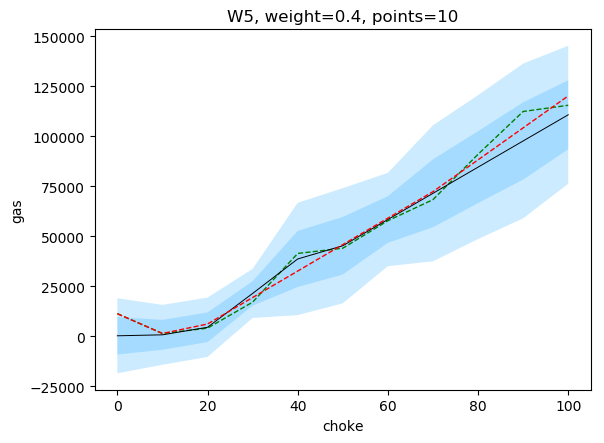
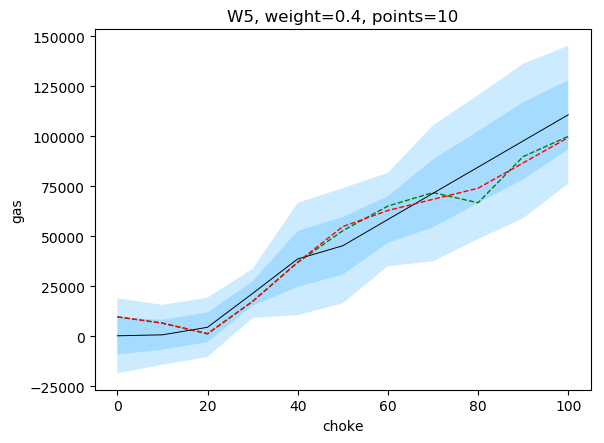
asd

diff --git a/NN_scenario.py b/NN_scenario.py
@@ -8,6 +8,7 @@ Created on Wed May  2 16:24:34 2018
 import pandas as pd
 from keras.layers import Input, Dense, Activation, LeakyReLU, PReLU, ELU, MaxoutDense, merge, Subtract, Dropout
 from keras.models import Model, Sequential
+from keras.callbacks import EarlyStopping
 from keras import losses, optimizers, backend, regularizers, initializers
 import numpy as np
 import tools
@@ -38,12 +39,12 @@ def build_model(neurons, dim, lr, regu=0.0, maxout=False, goal="oil"):
                           kernel_regularizer=regularizers.l2(regu),
                           bias_regularizer=regularizers.l2(regu)))
         model_1.add(Activation("relu"))
-        model_1.add(Dense(neurons,
-                          kernel_initializer=initializers.VarianceScaling(),
-                          bias_initializer=initializers.Constant(value=0.1),
-                          kernel_regularizer=regularizers.l2(regu),
-                          bias_regularizer=regularizers.l2(regu)))
-        model_1.add(Activation("relu"))
+#        model_1.add(Dense(neurons,
+#                          kernel_initializer=initializers.VarianceScaling(),
+#                          bias_initializer=initializers.Constant(value=0.1),
+#                          kernel_regularizer=regularizers.l2(regu),
+#                          bias_regularizer=regularizers.l2(regu)))
+#        model_1.add(Activation("relu"))
     #    model_1.add(Dense(neurons,
     #                      kernel_initializer=initializers.VarianceScaling(),
     #                      bias_initializer=initializers.Constant(value=0.1),
@@ -74,7 +75,7 @@ def train_scen(well, goal='gas', neurons=15, dim=1, case=2, lr=0.005,
         gas_factor = 1000.0, save_sos=False, num_scen=1, scen_start=0):
     filename = "variance_case"+str(case)+"_"+goal+".csv"
     df = pd.read_csv(filename, sep=';', index_col=0)
-    batch_size=50
+    batch_size=7
     ax=None
     for w in well:
         mean = df[str(w)+"_"+goal+"_mean"]
@@ -84,9 +85,9 @@ def train_scen(well, goal='gas', neurons=15, dim=1, case=2, lr=0.005,
             factor = int(100/points)
             mean = np.array([mean[i*factor] for i in range(points+1)])
             std = np.array([std[i*factor] for i in range(points+1)])
-            X = np.array([[i*factor] for i in range(points+1)])
-            y = np.zeros(len(X))
-            m = np.zeros(len(X))
+        X = np.array([[i*factor] for i in range(len(mean))])
+        y = np.zeros(len(X))
+        m = np.zeros(len(X))
 
         for scen in range(scen_start, scen_start+num_scen):
             if (goal=="gas" and train):
@@ -108,11 +109,13 @@ def train_scen(well, goal='gas', neurons=15, dim=1, case=2, lr=0.005,
                 y[i] = max(0, (1-weight)*(mean[i]+std[i]*((y[i+1]-mean[i+1])/std[i+1])) + weight*ss.truncnorm.rvs(-num_std, num_std, scale=std[i], loc=mean[i], size=(1)))
     
             if(train):
+                early_stopping = EarlyStopping(monitor='loss', patience=10000, verbose=0, mode='auto')
                 model = build_model(neurons, dim, lr, regu=regu)
-                for i in range(100):
-                    model.fit(X,y,batch_size=batch_size,epochs=int(epochs/100),verbose=0)
-                    prediction = [x[0] for x in model.predict(X)]
-                    ax = plot_all(X, y, prediction, mean, std, m, goal, weight, points, x_, y_, w, train, ax)
+#                for i in range(100):
+#                model.fit(X,y,batch_size=batch_size,epochs=int(epochs),verbose=0)
+                model.fit(X, y, batch_size=batch_size, epochs=epochs, verbose=1, callbacks=[early_stopping])
+                prediction = [x[0] for x in model.predict(X)]
+#                ax = plot_all(X, y, prediction, mean, std, m, goal, weight, points, x_, y_, w, train, ax)
                     
 
             else:
@@ -179,6 +182,8 @@ def train_all_scen(neurons=15,lr=0.005,epochs=1000,save=True,plot=False, case=2,
     for w in t.wellnames_2:
         for p in ["oil","gas"]:
             train_scen(w, goal=p, neurons=neurons, lr=lr, epochs=epochs, save=save, plot=plot, case=case, num_std=num_std)
+
+        
 
 def save_sos2(x,y,phase, well, scen, folder):
     filename = folder + "sos2_" +phase+".csv"
